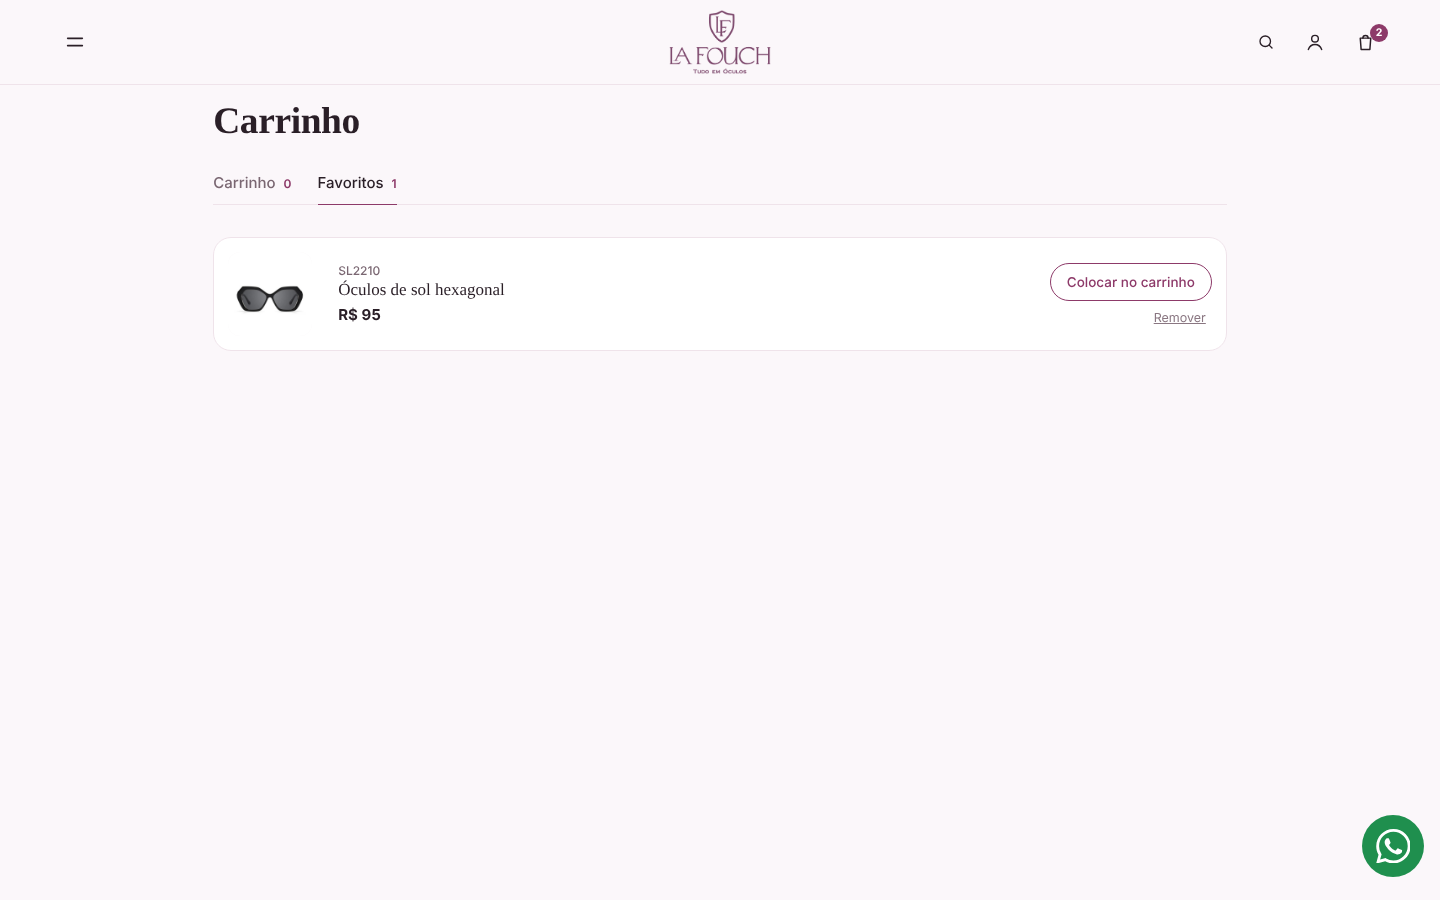
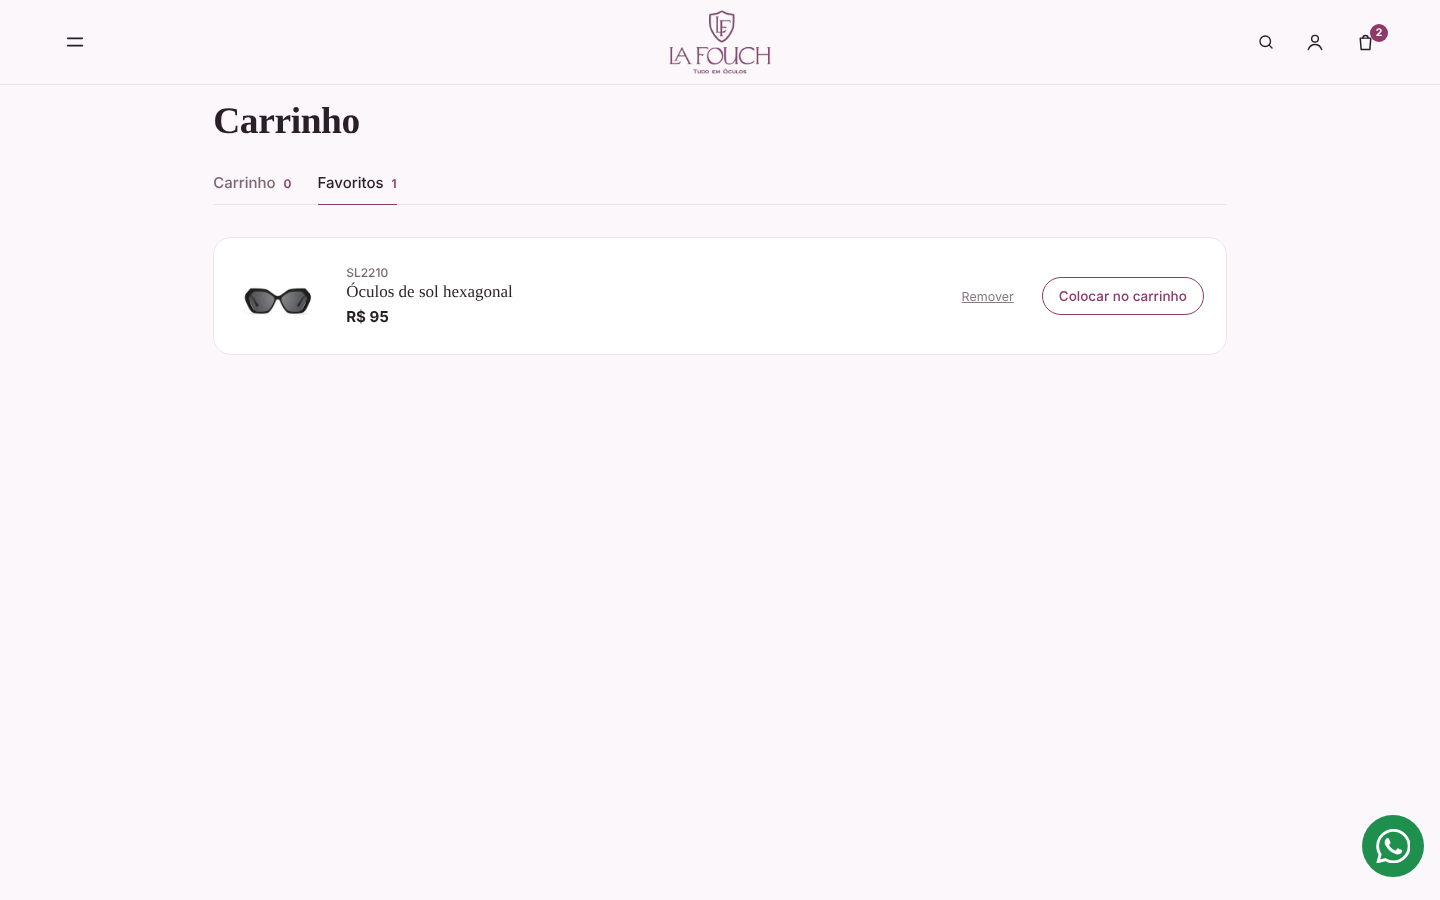
S153: favoritos PC alinhados; análise Comprar

Changed region(s): [[0.1562, 0.28, 0.3438, 0.3733], [0.7188, 0.3111, 0.8438, 0.3733], [0.6562, 0.3111, 0.6875, 0.3422]]

diff --git a/work/s152/s153.js b/work/s152/s153.js
@@ -8,7 +8,7 @@ var css=document.createElement('style');css.textContent=
 '.s53i button.hv:after{content:attr(data-t);position:absolute;top:40px;right:0;white-space:nowrap;background:#2a1f27;color:#fff;font:500 12px var(--body);padding:5px 10px;border-radius:8px;letter-spacing:0;text-transform:none}'+
 '.s53tb{display:flex;gap:26px;border-bottom:1px solid #efe3ea;margin:6px 0 18px}.s53tb a{position:relative;padding:12px 0;font:500 15px var(--body);color:#7a6772;text-decoration:none}.s53tb a.on{color:#2a1f27}.s53tb a.on:after{content:"";position:absolute;left:0;right:0;bottom:-1px;height:1.5px;background:#8d3a69}.s53tb small{font:600 12px var(--body);color:#8d3a69;margin-left:4px}'+
 '.s53it{display:grid;grid-template-columns:84px 1fr;column-gap:14px;row-gap:10px;align-items:center;padding:14px;border:1px solid #efe3ea;border-radius:18px;background:#fff}.s53it img{width:84px;height:84px;object-fit:contain;border-radius:12px;background:#fbf7fa}.s53it .g{flex:1;min-width:0}.s53it small{display:block;font:500 12px var(--body);color:#7a6772}.s53it b{display:block;font:400 17px var(--display,Georgia,serif);color:#2a1f27;margin:2px 0}.s53it em{font:700 15px var(--body);color:#2a1f27;font-style:normal}'+
-'.s53it .ac{grid-column:2;display:flex;align-items:center;gap:16px}@media (min-width:700px){.s53it{grid-template-columns:96px 1fr auto}.s53it .ac{grid-column:3;flex-direction:column;align-items:flex-end;gap:8px}}.s53it .bt{height:38px;padding:0 16px;border-radius:999px;border:1px solid #8d3a69;background:none;color:#8d3a69;font:500 13.5px var(--body);white-space:nowrap}.s53it .rm{border:0;background:none;color:#8a7782;font:400 12.5px var(--body);text-decoration:underline}'+
+'.s53it .ac{grid-column:2;display:flex;align-items:center;gap:16px}@media (min-width:700px){.s53it{grid-template-columns:96px 1fr auto;padding:16px 22px}.s53it .ac{grid-column:3;flex-direction:row-reverse;align-items:center;gap:22px}}.s53it .bt{height:38px;padding:0 16px;border-radius:999px;border:1px solid #8d3a69;background:none;color:#8d3a69;font:500 13.5px var(--body);white-space:nowrap}.s53it .rm{border:0;background:none;color:#8a7782;font:400 12.5px var(--body);text-decoration:underline}'+
 '.s52t a{color:#f2c6dc}';
 document.head.appendChild(css);
 window.__s53peca=function(hv){var ln=[...document.querySelectorAll('#layer *')].find(function(e){return /^SL\d+/.test((e.textContent||'').trim())&&/NOVO|ACETATO|METAL/i.test(e.textContent)&&e.getBoundingClientRect().height<40&&e.children.length<6});

diff --git a/docs/MEMORIA-PROJETO.md b/docs/MEMORIA-PROJETO.md
@@ -1649,3 +1649,4 @@ Decisões do dono sobre a tela Venda confirmada (esboço "venda_confirmada_compr
 - 11/11 04:58 ESBOÇO S152 (work/s152/S152_390.png, S152_390_b.png, S152_1440.png, s152.js): topo da peça só "‹ Início · breadcrumb" (sem bolinhas); ❤ da foto = favoritar (cheio vinho quando salvo) + aviso escuro "Salvo nos favoritos · Ver lista ›"; LISTA de favoritos = ♡ fino com número no cabeçalho, entre lupa/conta e sacola (celular e PC); "⇆ Comparar | ↗ Compartilhar" em texto com ícone fino abaixo do preço (vinho no mouse). PC com o topo aprovado S151 (só ☰). Aguardando.
 - 11/11 04:55 DONO: Comparar/Compartilhar "não está ruim", quer mais minimalista, SÓ ÍCONES, na posição mais recomendada; perguntou sobre favoritos junto com o carrinho (como a Apple). Respondi: ícones finos à direita na linha "SL2210 · NOVO · ACETATO" (acima do título), cinza → vinho no mouse, com nome ao passar o mouse; favoritos DENTRO da sacola (abas "Sacola | Favoritos (n)"), cabeçalho fica ☰ 👤 · logo · 🔍 🛒; aviso ao salvar vira "Salvo nos favoritos · Ver na sacola ›"; mover favorito para a sacola com um toque. Aguardando ok para esboço.
 - 11/11 05:02 ESBOÇO S153 (work/s152/S153_peca_390.png, S153_peca_1440.png, S153_fav_390.png, S153_fav_1440.png, s153.js): Comparar/Compartilhar só ÍCONES finos cinza à direita da linha "SL2210 · NOVO · ACETATO" (vinho + fundinho e nome no mouse, só PC); cabeçalho SEM ♡ (☰ 👤 · logo · 🔍 🛒); favoritos DENTRO do carrinho: abas "Carrinho 0 | Favoritos 1" (sublinhado vinho), cartão do favorito com foto, ref, nome, preço, "Colocar no carrinho" (botão A) e "Remover"; aviso "Salvo nos favoritos · Ver no carrinho ›". Uso "carrinho" (nome que o site já usa). Aguardando.
+- 11/11 05:00 DONO: favoritos no PC — alinhar melhor os botões (feito no esboço: "Colocar no carrinho" e "Remover" na mesma linha, centralizados na altura do cartão). Ideia: trocar "Ver modelo" por "Comprar" (continua levando à página). Minha análise: NÃO recomendo — promete uma ação que não acontece (cliente espera colocar no carrinho), cria dois "Comprar" com comportamentos diferentes no site, e óculos exige escolher cor/grau antes; sugestão: manter "Ver modelo" (ou "Escolher o seu" como alternativa de tom). Aguardando.
